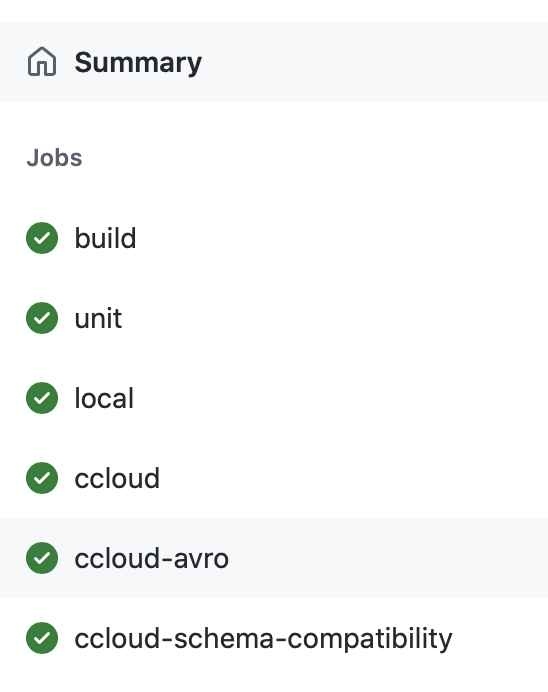
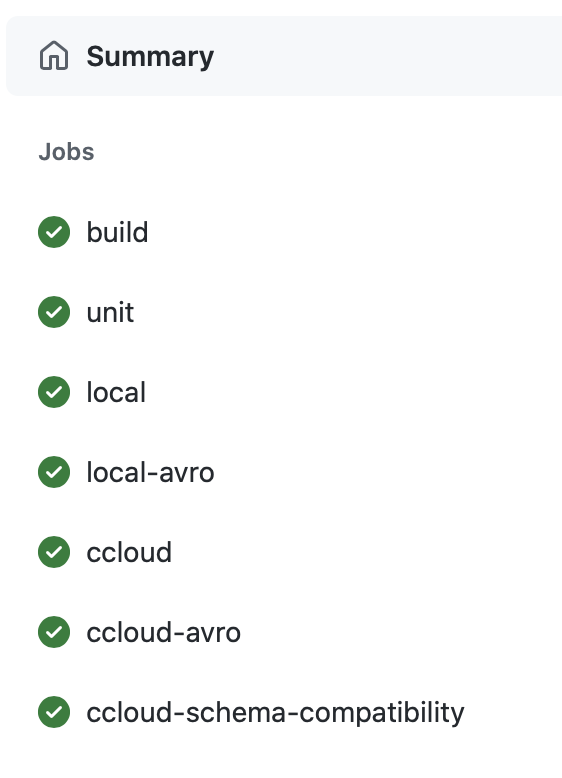
Local avro (#7)

diff --git a/README.md b/README.md
@@ -2,13 +2,14 @@
 
 This demo uses [GitHub Actions](https://docs.github.com/en/actions) for developing and valiating Apache Kafka client application, focusing on a Python producer and consumer using [Kafka Python Client](https://docs.confluent.io/kafka-clients/python/current/overview.html).
 
-It has a [GitHub Actions workflow](.github/workflows/python-kafka-app.yml) that demonstrates a few capabilities:
+The code defines a [GitHub Actions workflow](.github/workflows/python-kafka-app.yml) to demonstrate a few capabilities:
 
 - Build Docker image for the client application
 - Unit test with [rdkafka mock](https://github.com/edenhill/librdkafka/blob/master/src/rdkafka_mock.h)
-- Local test with [cp-all-in-one](https://docs.confluent.io/platform/current/tutorials/build-your-own-demos.html#cp-all-in-one)
+- Local test using [cp-all-in-one](https://docs.confluent.io/platform/current/tutorials/build-your-own-demos.html#cp-all-in-one)
+- Local test with Schema Registry and Avro using [cp-all-in-one](https://docs.confluent.io/platform/current/tutorials/build-your-own-demos.html#cp-all-in-one)
 - Confluent Cloud test
-- Confluent Cloud with Schema Registry and Avro test
+- Confluent Cloud test with Schema Registry and Avro
 - Schema compatibility check
 
 ![image](images/jobs-graphic.png)
